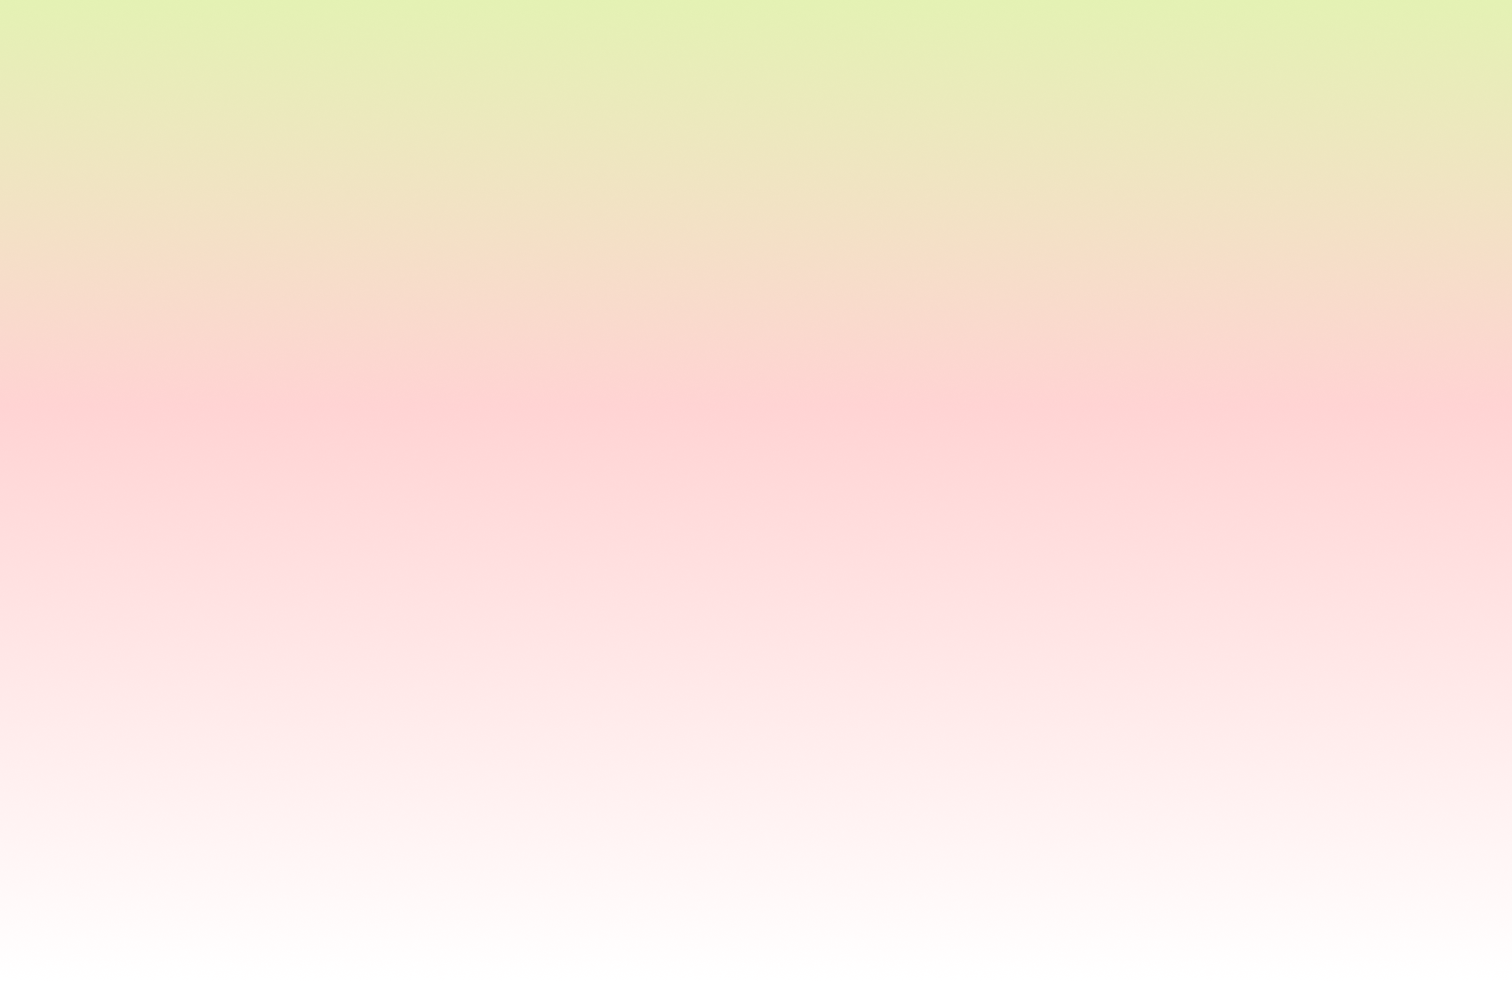
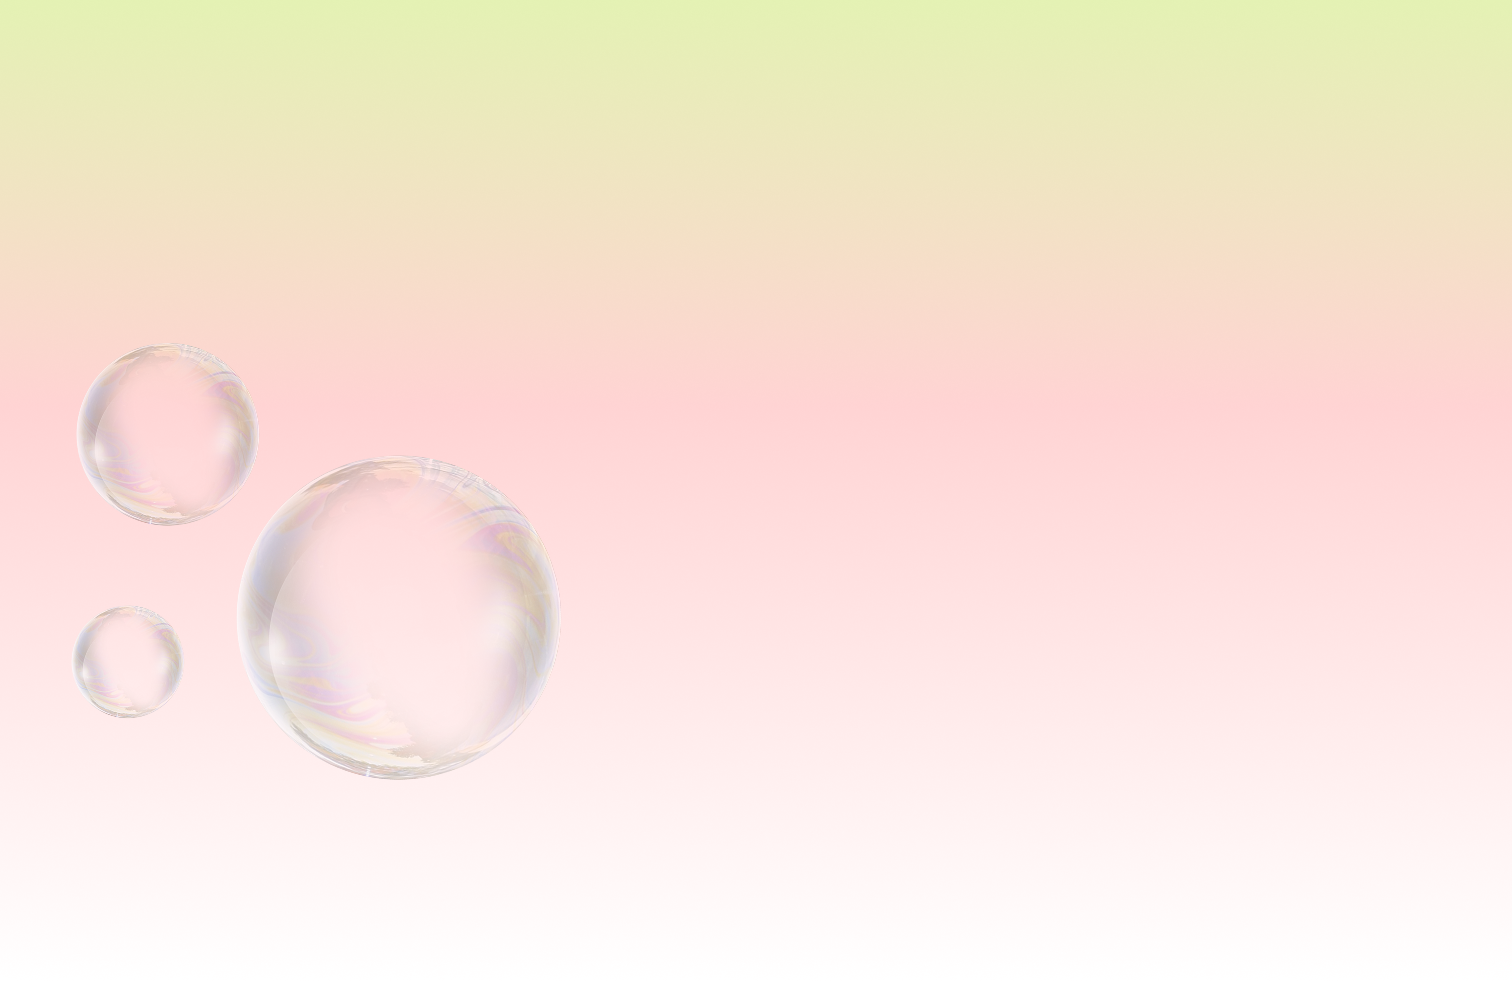
changes

diff --git a/style.css b/style.css
@@ -1,15 +1,18 @@
-@import url('https://fonts.googleapis.com/css2?family=Crimson+Text:ital,wght@0,400;0,600;0,700;1,400;1,600;1,700&family=Ranchers&display=swap');
+@import url('https://fonts.googleapis.com/css2?family=Crimson+Text:wght@400;600;700&family=Ranchers&display=swap');
 
 body {
   margin: 0;
   font-family: "Poppins", sans-serif;
-  background: linear-gradient(to bottom, #e8f3cc, #f9e0e0);
+  background: url("images/background.png") no-repeat center center fixed;
+  background-size: cover;    
   overflow-x: hidden;
 }
+
 .page {
   display: none;
   text-align: center;
-  height: 100vh;
+  width: 100vw;        
+  height: 100vh;     
   justify-content: center;
   align-items: center;
 }
@@ -49,7 +52,7 @@ nav ul li {
   font-weight: 800;
   transition: all 0.8s ease;
 }
-.can-container img {
+.drink-container img {
   width: 250px;
   transition: all 0.8s ease;
   filter: drop-shadow(0 10px 8px rgba(0, 0, 0, 0.2));
@@ -72,23 +75,28 @@ nav ul li {
   position: fixed;
   top: 0;
   left: 0;
-  width: 100%;
-  height: 100%;
+  width: 100vw;
+  height: 100vh;
   background: rgba(0,0,0,0.4);
   display: flex;
   justify-content: center;
   align-items: center;
 }
 .hidden { display: none; }
+
 .popup-content {
   background: white;
   padding: 2rem;
   border-radius: 20px;
   text-align: center;
   position: relative;
-  width: 400px;
+  width: 80vw;
+  max-width: 947px;   /* matches your Figma width but scales */
+  max-height: 90vh;
+  overflow: auto;
   animation: fadeIn 0.5s ease;
 }
+
 .close {
   position: absolute;
   right: 15px;
@@ -96,6 +104,7 @@ nav ul li {
   font-size: 1.5rem;
   cursor: pointer;
 }
+
 @keyframes fadeIn {
   from {opacity: 0; transform: scale(0.8);}
   to {opacity: 1; transform: scale(1);}
@@ -117,6 +126,15 @@ nav ul li {
 
 /* Page 4 Letter Movement */
 #moveLetters {
+  font-size: 4rem;
+  font-weight: 800;
+  color: #f36b6b;
+  letter-spacing: 0.8rem;
+  opacity: 0;
+  transform: translateY(50px);
+  transition: all 1.5s ease;
+}
+#moveLetters1 {
   font-size: 4rem;
   font-weight: 800;
   color: #f36b6b;
@@ -153,4 +171,53 @@ nav ul li {
 }
 .hover-can:hover img {
   filter: drop-shadow(0 25px 15px rgba(0,0,0,0.2));
+}
+
+/* BERRY appears from right */
+.berry {
+  display: inline-block;
+  opacity: 0;
+  transform: translateX(200px);
+  animation: slideInRight 1.5s ease forwards;
+  animation-delay: 0.3s; /* appears slightly later */
+}
+
+@keyframes slideInLeft {
+  to {
+    transform: translateX(0);
+    opacity: 1;
+  }
+}
+
+@keyframes slideInRight {
+  to {
+    transform: translateX(0);
+    opacity: 1;
+  }
+}
+
+/* Drink image */
+.drink-container img {
+  width: 250px;
+  transition: all 0.8s ease;
+  filter: drop-shadow(0 10px 8px rgba(0,0,0,0.2));
+}
+
+.text {
+  max-width: 300px;
+}
+.text p {
+  font-size: 1.1rem;
+}
+.text button {
+  margin-top: 1rem;
+  padding: 0.7rem 1.5rem;
+  background-color: #5a662b;
+  color: white;
+  border: none;
+  border-radius: 25px;
+  cursor: pointer;
+}
+.text button:hover {
+  background-color: #7d8f4f;
 }

diff --git a/index.html b/index.html
@@ -55,15 +55,16 @@
 
   <!-- PAGE 4: SMOOTH LETTER MOVE -->
   <section id="page4" class="page hidden">
-    <h1 id="moveLetters">S T R A W B E R R Y</h1>
+    <h1 id="moveLetters">STRAW</h1>
+    <h1 id="moveLetter1">BERRY</h1>
   </section>
 
   <!-- PAGE 5: HOVER ANIMATION -->
   <section id="page5" class="page hidden">
     <div class="final-hero">
-      <h1 class="hover-text">STRAWBERRY VANILLA</h1>
+      <h1 class="hover-text">STRAWBERRY</h1>
       <div class="hover-can">
-        <img src="https://i.ibb.co/Z8JHqvQ/strawberry-soda.png" alt="drink" />
+        <img src="images/Drink.png" alt="drink" />
       </div>
     </div>
   </section>
